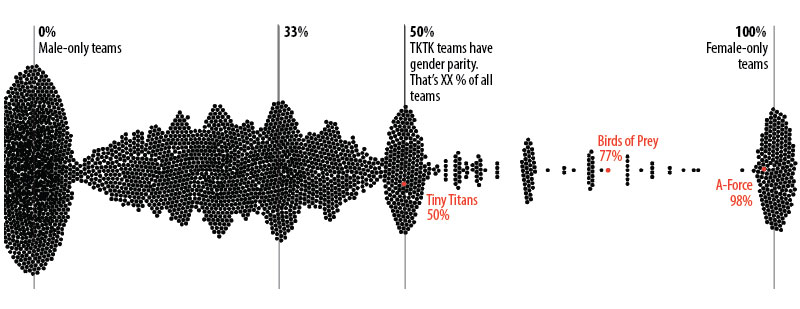
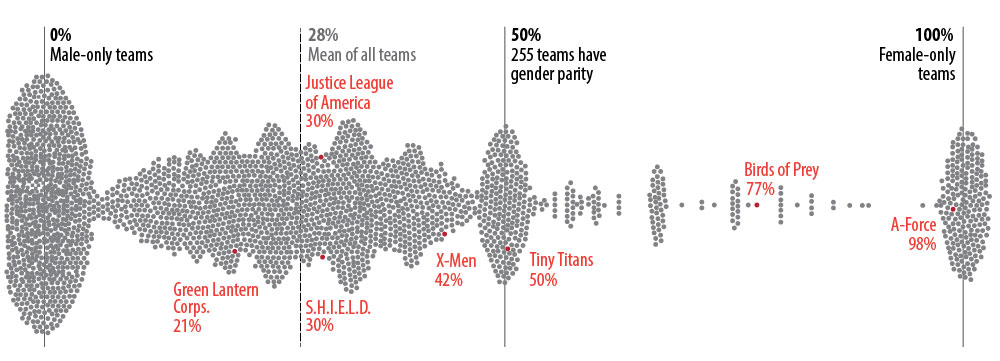
new swarm omg

Changed region(s): [[0.0, 0.0583, 0.875, 0.932], [0.875, 0.0583, 1.0, 0.932]]

diff --git a/index.html b/index.html
@@ -215,7 +215,7 @@
  -->	<div id="stick">
 
 			<div class="bubbles">
-				<div id="stick_powers" class="bubble little black arrow br tk-atlas">
+				<div id="stick_powers" class="bubble little black arrow br tk-atlas small">
 					<div id="bubble_content" class="content">
 						<span id="titleInsert">What's that? </span><br><span id="textInsert">Click on a bar and I'll explain the power!</span> 
 					</div>
@@ -237,7 +237,8 @@
 	<div class="paddedBody small">
 		<!-- <p>Male and female characters tend to have the same most-common powers — unarmed combat (20% of males, 21% of females), intellect, agility, super strength and flight. 
 		</p> -->
-		<p>The data suggest that non-physical powers — such as empathy, intellect, and pheromone control — are represented greater in female characters. Highly physical powers and those that involve gadgets, tend to be given to males. These findings are a bit too close to the men-are-physical and women-are-emotional stereotypes for comfort. Carolyn Cocca, academic and author of the Eisner-nominated book <a href="https://www.amazon.com/Superwomen-Gender-Representation-Carolyn-Cocca/dp/1501316575">"Superwomen: Gender, Power, and Representation"</a>, says this data is inline with what she has seen in her research. "[Traditionally], female characters are more likely to have these pose and stand and point type of powers... They're not punching people, and they're not necessarily getting punched in return. ... So they just kind of stand there and look pretty.”</p>
+		<p>The data suggest that non-physical powers — such as empathy, intellect, and pheromone control — tend to be represented greater in female characters. Highly physical powers and those that involve gadgets, are often given to males. These findings are a bit too close to the men-are-physical and women-are-emotional stereotypes for comfort. Carolyn Cocca, academic and author of the Eisner-nominated book <a href="https://www.amazon.com/Superwomen-Gender-Representation-Carolyn-Cocca/dp/1501316575">"Superwomen: Gender, Power, and Representation"</a>, says this data is inline with what she has seen in her research. "[Traditionally], female characters are more likely to have these pose and stand and point type of powers... They're not punching people, and they're not necessarily getting punched in return. ... So they just kind of stand there and look pretty.”</p>
+		<p> You'll notice comments from Cocca throughout this piece. As a respected academic and one of the few people to write about and research extensively the topic of gender representation in comics, her words offer expert commentary on TKTKT.</p> 
 	
 <!-- 		<p>In addition, we find that while female characters have a number of outlier powers — powers where the percent differences between male and female characters are great — male characters do not. Enhance mutation, matter absorption, penance stare and berserker strength are the powers most dominated by men (as a percent difference). The percent differences aren’t huge, however. The greatest percent difference is only 65%, while on the female side we find many powers with much greater differences. What does this mean? It suggests that there are some powers that are specifically female powers, while there are few specifically male powers.
 		</p> -->
@@ -251,7 +252,7 @@
 		<!-- TEAMS SECTION -->
 	<div class="paddedBody small" >
 		<h3 class="midTitle">Token teams and team members</h3>
-		<p> Both male and female characters are equally likely to be on teams. Of all characters, 46% are on a team — where 49% of females are on a team, and 48% of males are on a team. However, there is a significant difference when we look at the make-up of the teams themselves and how females appear within them. </p> 
+		<p> Combined, there are over 2500 teams in the DC and Marvel universes. And roughly half of both male and female characters are on at least one team. That doesn't mean, though, that female team members are evenly distributed. In fact, However, there is a significant difference when we look at the make-up of the teams themselves and where </p> 
 
 		<p id="" class="tk-atlas small numWords">NO WOMEN</p>
 		<p id="" class="tk-atlas small num">30%</p>
@@ -261,12 +262,12 @@
 		<p id="" class="tk-atlas small num">27%</p>
 		<br><br><br>
 
-		<p>Dissapointingly, the more members a team has, the more likely the team is to have fewer female characters than men. Even the X-Men, one of the most-popular teams of all time, don't have parity. With a name like that, though, what do you expect? Aside from the Amazons (which is an outlier as a large, almost-all woman group), the largest group to have more woman than men is the Daily Bugle — and it's not even a team! (Interestingly, this female-male ratio is better than in most real-life newsrooms (link).) </p> 
+		<!-- <p>Dissapointingly, the more members a team has, the more likely the team is to have fewer female characters than men. Even the X-Men, one of the most-popular teams of all time, don't have parity. With a name like that, though, what do you expect? Aside from the Amazons (which is an outlier as a large, almost-all woman group), the largest group to have more woman than men is the Daily Bugle — and it's not even a team! (Interestingly, this female-male ratio is better than in most real-life newsrooms (link).) </p> --> 
 	</div>
 
 	<div class="chartHed">
 		<p class="chartTitle tk-atlas medium">Every team in DC and Marvel</p>
-		<p class="chartText tk-atlas small">Each dot represents one of over 2000 teams in the DC and Marvel universes (good to colour these by Marvel and DC??)</p>
+		<p class="chartText tk-atlas small">Each dot represents one of over 2500 teams in the DC and Marvel universes. If every team maintained the male/female ratio of the entire dataset, all would cluster at 27% female. The mean of all teams happens to be 28% female.</p>
 		<!-- <button id="allTeams" class="btn">allTeams</button>
 		<button id="fiftyPercent" class="btn">>50% women</button>
 		<button id="tokenWoman" class="btn">The token women</button>
@@ -303,7 +304,7 @@
 	<div class="expertOpinion">
 		<h3 class="tk-atlas medium expert">Expert opinion</h3>
 		<br><br><br>
-		<p class="expertText">“I would argue that things are getting better in how women are represented. But I would say that with the caveat that there are still such a small number of female characters that they're still carrying that virtually impossible representational weight. Because there are so few, you can't have a spectrum of different types of females, and so if you only have the one female character on the team, which you still mostly do, and then you compare her to the several men characters on the team, there's just no way she can be well-rounded enough." — Carolyn Cocca (interview)</p>
+		
 
 		<p class="expertText">"[Women] would basically be a token on the team, and very often that token would be the weakest member of the team, the weak link, the one that got captured, the one de-powered, the one that messed up and had to be rescued. And when you're just 'the girl' on the team, then that just reinforces, “well, why have female characters, because they're always like that? They're always the one that needs to be rescued."  — Carolyn Cocca (interview)</p>
 	</div>
@@ -319,8 +320,7 @@
 <!-- GENDERED NAMES SECTION-->
 	<div class="paddedBody small">
 		<h3 class="midTitle">Little Miss Lassgirl</h3>
-		<p> Two thirty-year-old superheroes charge into the panel: One is Hero-Man, the other is Hero-Girl. Their villains show up — it's King Baddie and Princess Baddie. They are saved by their sidekicks: Sir Help and Miss Assistance. Do you notice a difference? Inequality in gendered superhero names is a common trope. Why is there a Batman, but his gendered counterpart is Batgirl? Why is SuperMan's gender counterpart Super Girl?</p>
-		<p>Not all gendered names are equal. Some names fit a 'diminutive' category. These are monikers that are the younger, or infantilized version of another name. For example, girl is the diminutive version of woman. If we compare the use of diminutive names for male and female characters, we see that 33% of female characters and 16% of male characters fit in the category. Females are almost twice as likely to be given a name that makes her seem weak, infantilized, less aggressive and not on the same playing field as male characters.
+		<p>Not all gendered names are equal. Some names fit a 'diminutive' category. These are monikers that are the younger, or infantilized version of another name. For example, girl is the diminutive version of woman. If we compare the use of diminutive names for male and female characters, we see that 33% of female characters and 16% of male characters fit in the category. Females are almost twice as likely to be given a name that makes her seem weak, infantilized, less aggressive and not on equal footing with male characters.
 		</p>
 	</div>
 
@@ -400,6 +400,7 @@
 
 		<p>It's as good a time as any to look at how females are portrayed in the billion-dollar, global industry that is superheroes. Marvel and DC are no longer simply convenience-store singles, now they're blockbuster movies, fast-selling merchandise, drama-filled tv shows and popular video games. The more we see these characters appear in pop culture, and because female characters are such a small fraction overall, the more their representation matters.</p>
 		<p>In <i>Superwomen: Gender, power and representation</i>, author Carolyn Cocca writes: "If the constantly repeated story is that women and girls are not leaders, are not working in professional settings, are not agents of their own lives but merely adjuncts to others, and are sometimes not even present at all, it can reinforce or foster societal undervaluing of women and girls... As there are fewer female characters to begin with, each is overburdened with representing women as a group."</p>
+		<p class="expertText">“I would argue that things are getting better in how women are represented. But I would say that with the caveat that there are still such a small number of female characters that they're still carrying that virtually impossible representational weight. Because there are so few, you can't have a spectrum of different types of females, and so if you only have the one female character on the team, which you still mostly do, and then you compare her to the several men characters on the team, there's just no way she can be well-rounded enough." — Carolyn Cocca (interview)</p>
 	</div>
 
 	<div id="introGifs">

diff --git a/style.css b/style.css
@@ -467,7 +467,8 @@ th {
 
 
 #swarm {
-	max-width:800px;
+	max-width:1000px;
+	width:100%;
 	margin-right: auto;
 	margin-left: auto;
 }
@@ -480,9 +481,9 @@ th {
 	right:2%;
 	z-index: 100;
 	max-width: 250px;
+	max-height: 300px
 	font-size: 12px;
 	display:none;
-
 }
 
 #titleInsert {
@@ -509,6 +510,7 @@ th {
     position: -webkit-sticky;  // required for Safari
     position: sticky;
     top: 0; // required as well.
+
 }   
 
 
@@ -582,6 +584,10 @@ th {
   border-radius: 10px;
   z-index: 1;
   padding: 10px 16px;
+  overflow:auto;
+  max-height:300px;
+  width:100%;
+
 }
 
 .bubble.br::before,
